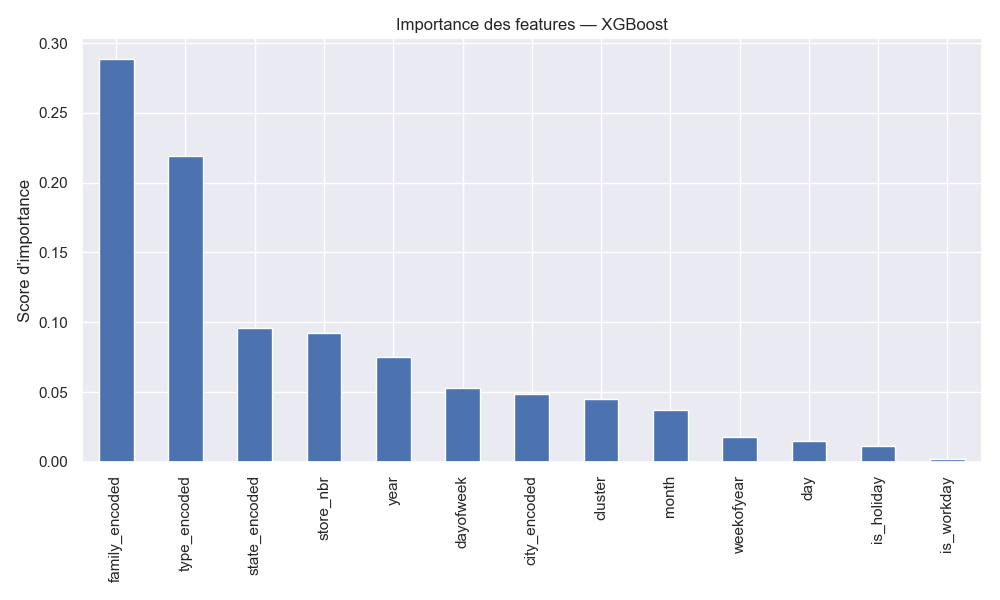
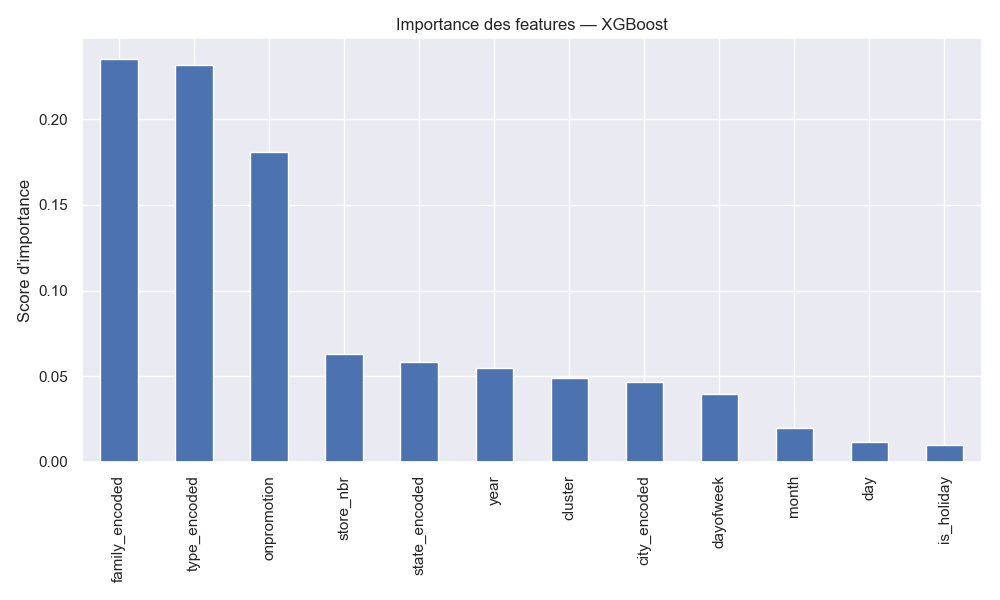
feat: ajout onpromotion + suppression features inutiles

diff --git a/src/model.py b/src/model.py
@@ -6,9 +6,10 @@ from xgboost import XGBRegressor
 from sklearn.metrics import mean_absolute_error, mean_squared_error
 import os
 
-FEATURES = ["year", "month", "day", "dayofweek", "weekofyear",
-            "store_nbr", "family_encoded", "is_holiday", "is_workday",
-            "city_encoded", "state_encoded", "type_encoded", "cluster"]
+FEATURES = ["year", "month", "day", "dayofweek",
+            "store_nbr", "family_encoded", "is_holiday",
+            "city_encoded", "state_encoded", "type_encoded", 
+            "cluster", "onpromotion"]
 
 TARGET = "sales"
 
@@ -23,22 +24,24 @@ def split_train_test(df, test_year=2017):
 def train_model(train):
 
     # On échantillonne 20% pour ne pas saturer la RAM
-    train_sample = train.sample(frac=0.2, random_state=42)
+    train_sample = train.sample(frac=0.4, random_state=42)
     print(f"Échantillon d'entraînement : {len(train_sample)} lignes")
 
     X_train = train_sample[FEATURES]
     y_train = train_sample[TARGET]
 
     model = XGBRegressor(
-        n_estimators=500,       # 500 arbres séquentiels
-        learning_rate=0.05,     # Vitesse d'apprentissage — petit = plus précis
-        max_depth=6,            # Profondeur max de chaque arbre
-        subsample=0.8,          # 80% des données par arbre — évite le surapprentissage
-        colsample_bytree=0.8,   # 80% des features par arbre
-        random_state=42,
-        n_jobs=-1,
-        verbosity=0             # Pas de logs inutiles
-    )
+    n_estimators=300,       # réduit de 500 à 300
+    learning_rate=0.1,      # augmenté de 0.05 à 0.1
+    max_depth=8,            # augmenté de 6 à 8
+    subsample=0.8,
+    colsample_bytree=0.8,
+    random_state=42,
+    min_child_weight=5,     #  évite le surapprentissage
+    gamma=0.1,
+    n_jobs=-1,
+    verbosity=0
+)
 
     model.fit(X_train, y_train)
     print("Modèle XGBoost entraîné !")
